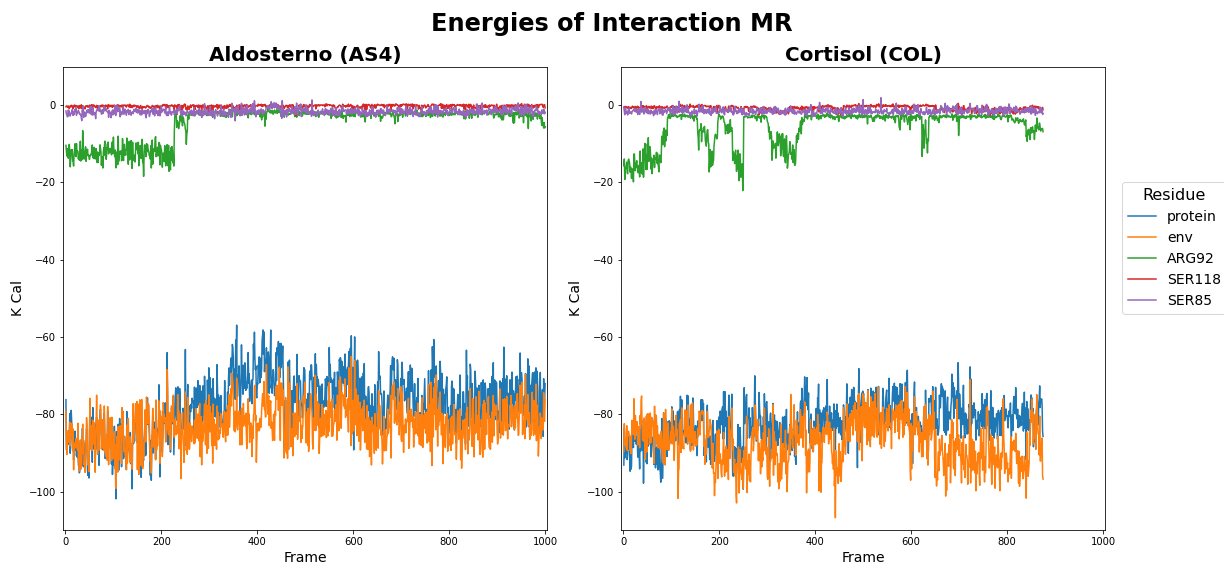
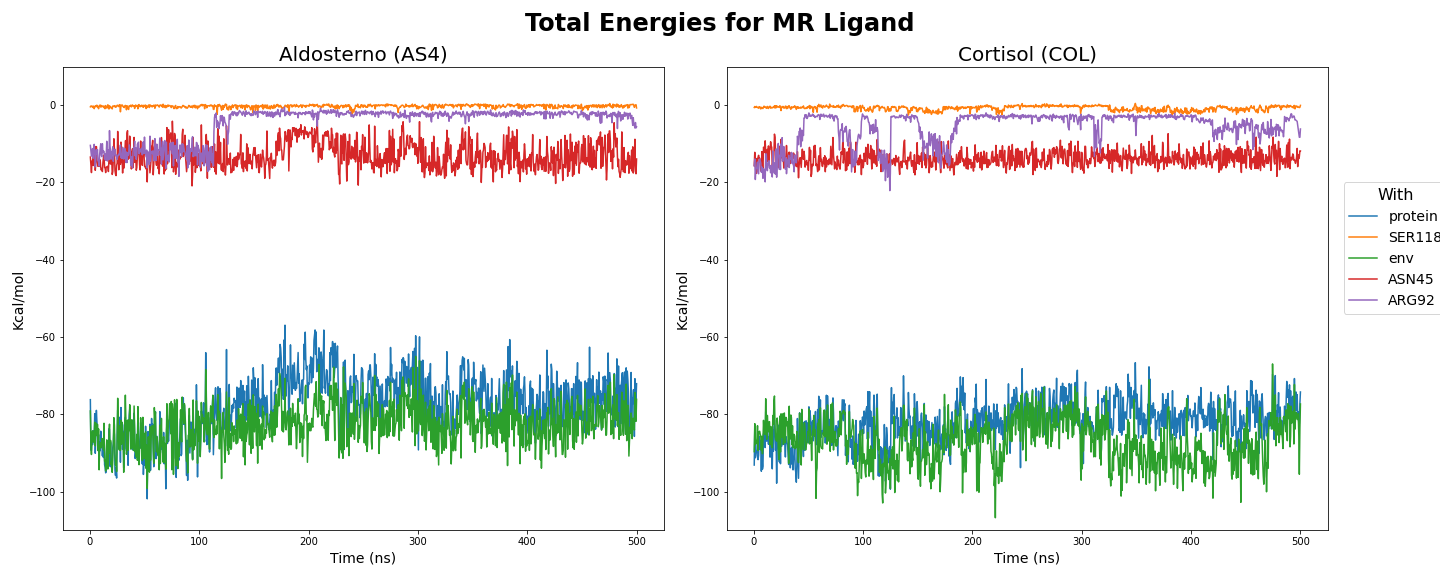
updating total energies image

diff --git a/README.md b/README.md
@@ -89,7 +89,7 @@ This image is obtained using the [PlotEnergies.ipynb](./NoteBooks/PlotEnergies.i
 Characterization of ligand binding thermodynamics and kinetics](https://www.biorxiv.org/content/10.1101/2020.04.20.051979v1.full.pdf)
 
 [8] [Ligand Gaussian Accelerated Molecular Dynamics (LiGaMD):
-Characterization of Ligand Binding Thermodynamics and Kinetics - 2021](https://pubs.acs.org/doi/pdf/10.1021/acs.jctc.0c00395)
+Characterization of Ligand Binding Thermodynamics and Kinetics - latest](https://pubs.acs.org/doi/pdf/10.1021/acs.jctc.0c00395)
 
 [9] [Gaussian accelerated molecular dynamics: principles and applications](http://miaolab.org/library/documents/2021-WIREs_GaMD.pdf)
 
